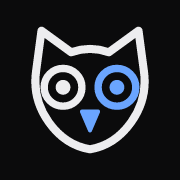
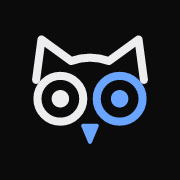
fix(docs): draw the approved owl, with the open brow and ringed eyes
The mark had been changed to an owl with a closed head outline. The
approved concept is an open brow line with two ear tufts, two large ringed
eyes and a beak. The 16px favicon keeps that shape with a heavier brow and
solid eyes. DESIGN.md describes the corrected mark.

Changed region(s): [[0.1667, 0.1389, 0.8333, 0.8611]]

diff --git a/DESIGN.md b/DESIGN.md
@@ -102,8 +102,9 @@ agent-svgtools gives an agent the one thing it lacks when it writes SVG: sight.
 The identity is an owl, because an owl is the animal that sees in the dark, and
 it is drawn the way the tool works: from plain geometry, with nothing hidden.
 
-- **The mark is an owl head.** One continuous outline makes the head and its
-  two ear tufts. Two ringed eyes and a beak sit inside it.
+- **The mark is an owl face.** One open line rises into two ear tufts and
+  dips between them as the brow. Two large ringed eyes and a beak hang below
+  it. The face has no closed outline.
 - **The two eyes are the two images.** The left eye, in the ink colour, is the
   reference. The right eye, in the accent colour, is the candidate. The tool
   compares them, so the mark shows them side by side.
@@ -121,7 +122,7 @@ the dark value; the `-light` token is the light value of the same role.
   an accent.
 - **Page (#0b0b0c dark, #fafafa light):** The background of the favicon tile
   and of every social image.
-- **Text (#ededef dark, #111113 light):** The ink. It draws the head outline
+- **Text (#ededef dark, #111113 light):** The ink. It draws the brow
   and the reference eye, and sets the name.
 - **Text 2 (#a6a6af dark, #4a4a52 light):** The tagline.
 
@@ -165,20 +166,19 @@ comes from the stroke weight and from the accent colour on the candidate eye.
 
 ## Shapes
 
-The shape language is outline and circle: a `stroke` (6px in a 96-unit mark)
-with round joins, and circles for both eyes.
+The shape language is outline and circle: a `stroke` (6 units in a 96-unit
+mark) with round caps and joins, and circles for both eyes.
 
-- **Head.** One closed path. The ear tufts are straight lines with round
-  joins. The cheeks and the chin are one curve.
-- **Eyes.** A ring with a solid pupil. The ring is 5.5 units wide, a little
-  lighter than the head outline, so the eyes sit inside the head and do not
-  compete with it.
-- **Beak.** A solid triangle with rounded corners.
+- **Brow.** One open path. The ear tufts are straight lines with round joins.
+  A shallow arc joins them.
+- **Eyes.** Two rings the same width as the brow, each with a solid pupil. They
+  are large and set close, so they touch the lower ends of the tufts.
+- **Beak.** A solid triangle with rounded corners, centred below the eyes.
 - **Favicon tile.** A square with a corner radius of one seventh of its side
   (`tile`, 18.3px at 128px).
-- **Favicon at 16px.** The head is solid and the eyes and the beak are cut out
-  of it, because a 6-unit outline does not survive at that size. The right
-  pupil stays in the accent colour.
+- **Favicon at 16px.** The brow is heavier and the eyes are solid discs with
+  no pupils, because a 6-unit ring does not survive at that size. The right
+  eye stays in the accent colour.
 
 ## Components
 
@@ -190,7 +190,7 @@ the favicons, which are dark.
 | `logo-light` | `logo.svg` | square | The mark for a light page. `logo` in `docs.yml`. |
 | `logo` | `logo-dark.svg` | square | The mark for a dark page. `logo-dark` in `docs.yml`. |
 | `favicon` | `favicon.svg`, `favicon-32.png` | 128 and 32px | The mark on a dark tile. `favicon` in `docs.yml`. |
-| `favicon-small` | `favicon-16.svg`, `favicon.ico` | 16px | The solid-head form for the smallest sizes. The `.ico` holds 16, 32 and 48px. |
+| `favicon-small` | `favicon-16.svg`, `favicon.ico` | 16px | The heavy-brow, solid-eye form for the smallest sizes. The `.ico` holds 16, 32 and 48px. |
 | `favicon` | `apple-touch-icon.png` | 180px | The mark on a square tile with no rounded corners. The platform rounds it. |
 | `social-image`, `social-image-light` | `social-image-dark.svg`, `social-image.svg` and `.png` | 1200x630 | The wyrd.foo social image. `social-image` in `docs.yml` is the light one. |
 | `social-preview`, `social-preview-light` | `social-preview-dark.svg`, `social-preview.svg` and `.png` | 1280x640 | The GitHub repository social preview. |
@@ -205,7 +205,7 @@ that matches their colour scheme.
 
 - Do draw the mark from the shipped SVG. Do not redraw it.
 - Do keep the two eyes in two different colours. The difference is the idea.
-- Do use the filled head below 24px, and the outlined head at 24px and above.
+- Do use the solid-eye form below 24px, and the ringed-eye form at 24px and above.
 - Do keep the clear space around the mark.
 - Do write the name in lower case with the hyphen.
 - Don't add a third colour, a gradient or a shadow.
